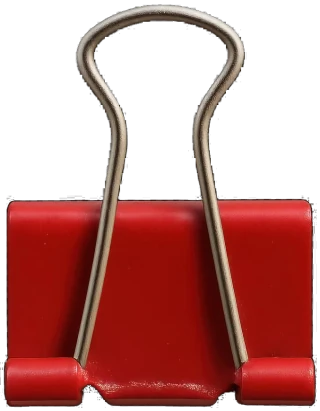
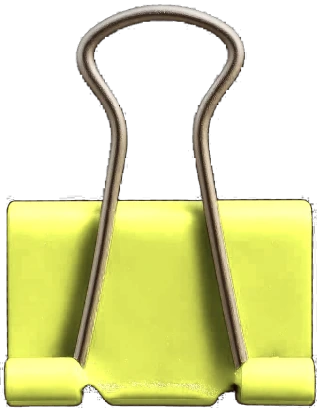
CV: acid-yellow binder clip, a little bigger; orange list dashes
On the final palette, as Martina asked:
- assets/binder-clip.webp is the same clip relit from redpin.jpg as
  acid-yellow plastic (same 320x411), 42% of the photo width instead of 34%
- the CV list dashes are orange, like every list dash on the site

diff --git a/styles.css b/styles.css
@@ -1508,8 +1508,8 @@ img, video { max-width: 100%; }
 
 /* =========================================================
    CV — a printed resume on the blue desk (the site's one blue ground), set small
-   and tight: the portrait held on it by a red binder clip, the skills as coloured
-   stickers, the full PDF one burgundy button below
+   and tight: the portrait held on it by an acid-yellow binder clip, the skills as
+   coloured stickers, the full PDF one burgundy button below
    ========================================================= */
 .sec--cv {
   overflow-x: clip;               /* the tilted sheet never widens the page */
@@ -1624,7 +1624,7 @@ img, video { max-width: 100%; }
 .cv-entry__note { font-size: 0.72rem; line-height: 1.4; color: var(--ink-3); }
 .cv-entry__points { list-style: none; margin-top: 0.35rem; }
 .cv-entry__points li { position: relative; padding-left: 0.9rem; font-size: 0.78rem; line-height: 1.5; color: var(--ink-2); }
-.cv-entry__points li::before { content: "–"; position: absolute; left: 0; color: var(--ink-3); }
+.cv-entry__points li::before { content: "–"; position: absolute; left: 0; color: var(--orange); }   /* orange, like every list dash */
 .cv-entry__points b { font-weight: 700; color: var(--ink); }   /* the figures: bold, nothing louder */
 .cv-entry--edu .cv-entry__role { font-size: 0.82rem; }
 
@@ -1699,14 +1699,14 @@ img, video { max-width: 100%; }
   text-align: center;
   color: var(--electric-ink);
 }
-/* Martina's red binder clip (assets/binder-clip.webp): the jaws bite the top of the
-   print, the body and the wire rise above it */
+/* Martina's binder clip (assets/binder-clip.webp, relit in acid yellow from redpin.jpg):
+   the jaws bite the top of the print, the body and the wire rise above it */
 .cv-clip {
   position: absolute;
   z-index: 1;
   top: 0;
   left: 58%;
-  width: 34%;
+  width: 42%;
   height: auto;
   translate: -50% -72%;
   rotate: -4deg;

diff --git a/data/cv.js b/data/cv.js
@@ -18,7 +18,7 @@ window.PORTFOLIO.cv = {
   pdf: "assets/Martina-Cola-CV.pdf",
 
   /* on the sheet: the portrait (content/cv/portrait-<width>.webp, from IMG_8414, 4:5 crop)
-     held by Martina's red binder clip (redpin.jpg, cut out of its background) */
+     held by Martina's binder clip (redpin.jpg, cut out of its background and relit in acid yellow) */
   photo: { src: "content/cv/portrait", widths: [480, 960], ratio: 4 / 5, caption: "hi, it’s me!" },
   clip: { src: "assets/binder-clip.webp", width: 320, height: 411 },
 

diff --git a/js/cv.js b/js/cv.js
@@ -1,6 +1,6 @@
 /* =========================================================
    CV — the Curriculum section of the home page: a printed resume lying on the
-   blue stage, set small and tight, the portrait held on it by a red binder clip,
+   blue desk, set small and tight, the portrait held on it by a yellow binder clip,
    the skills as coloured stickers, and "Download full CV" underneath.
    A snapshot only — the PDF has the rest.
    ========================================================= */
